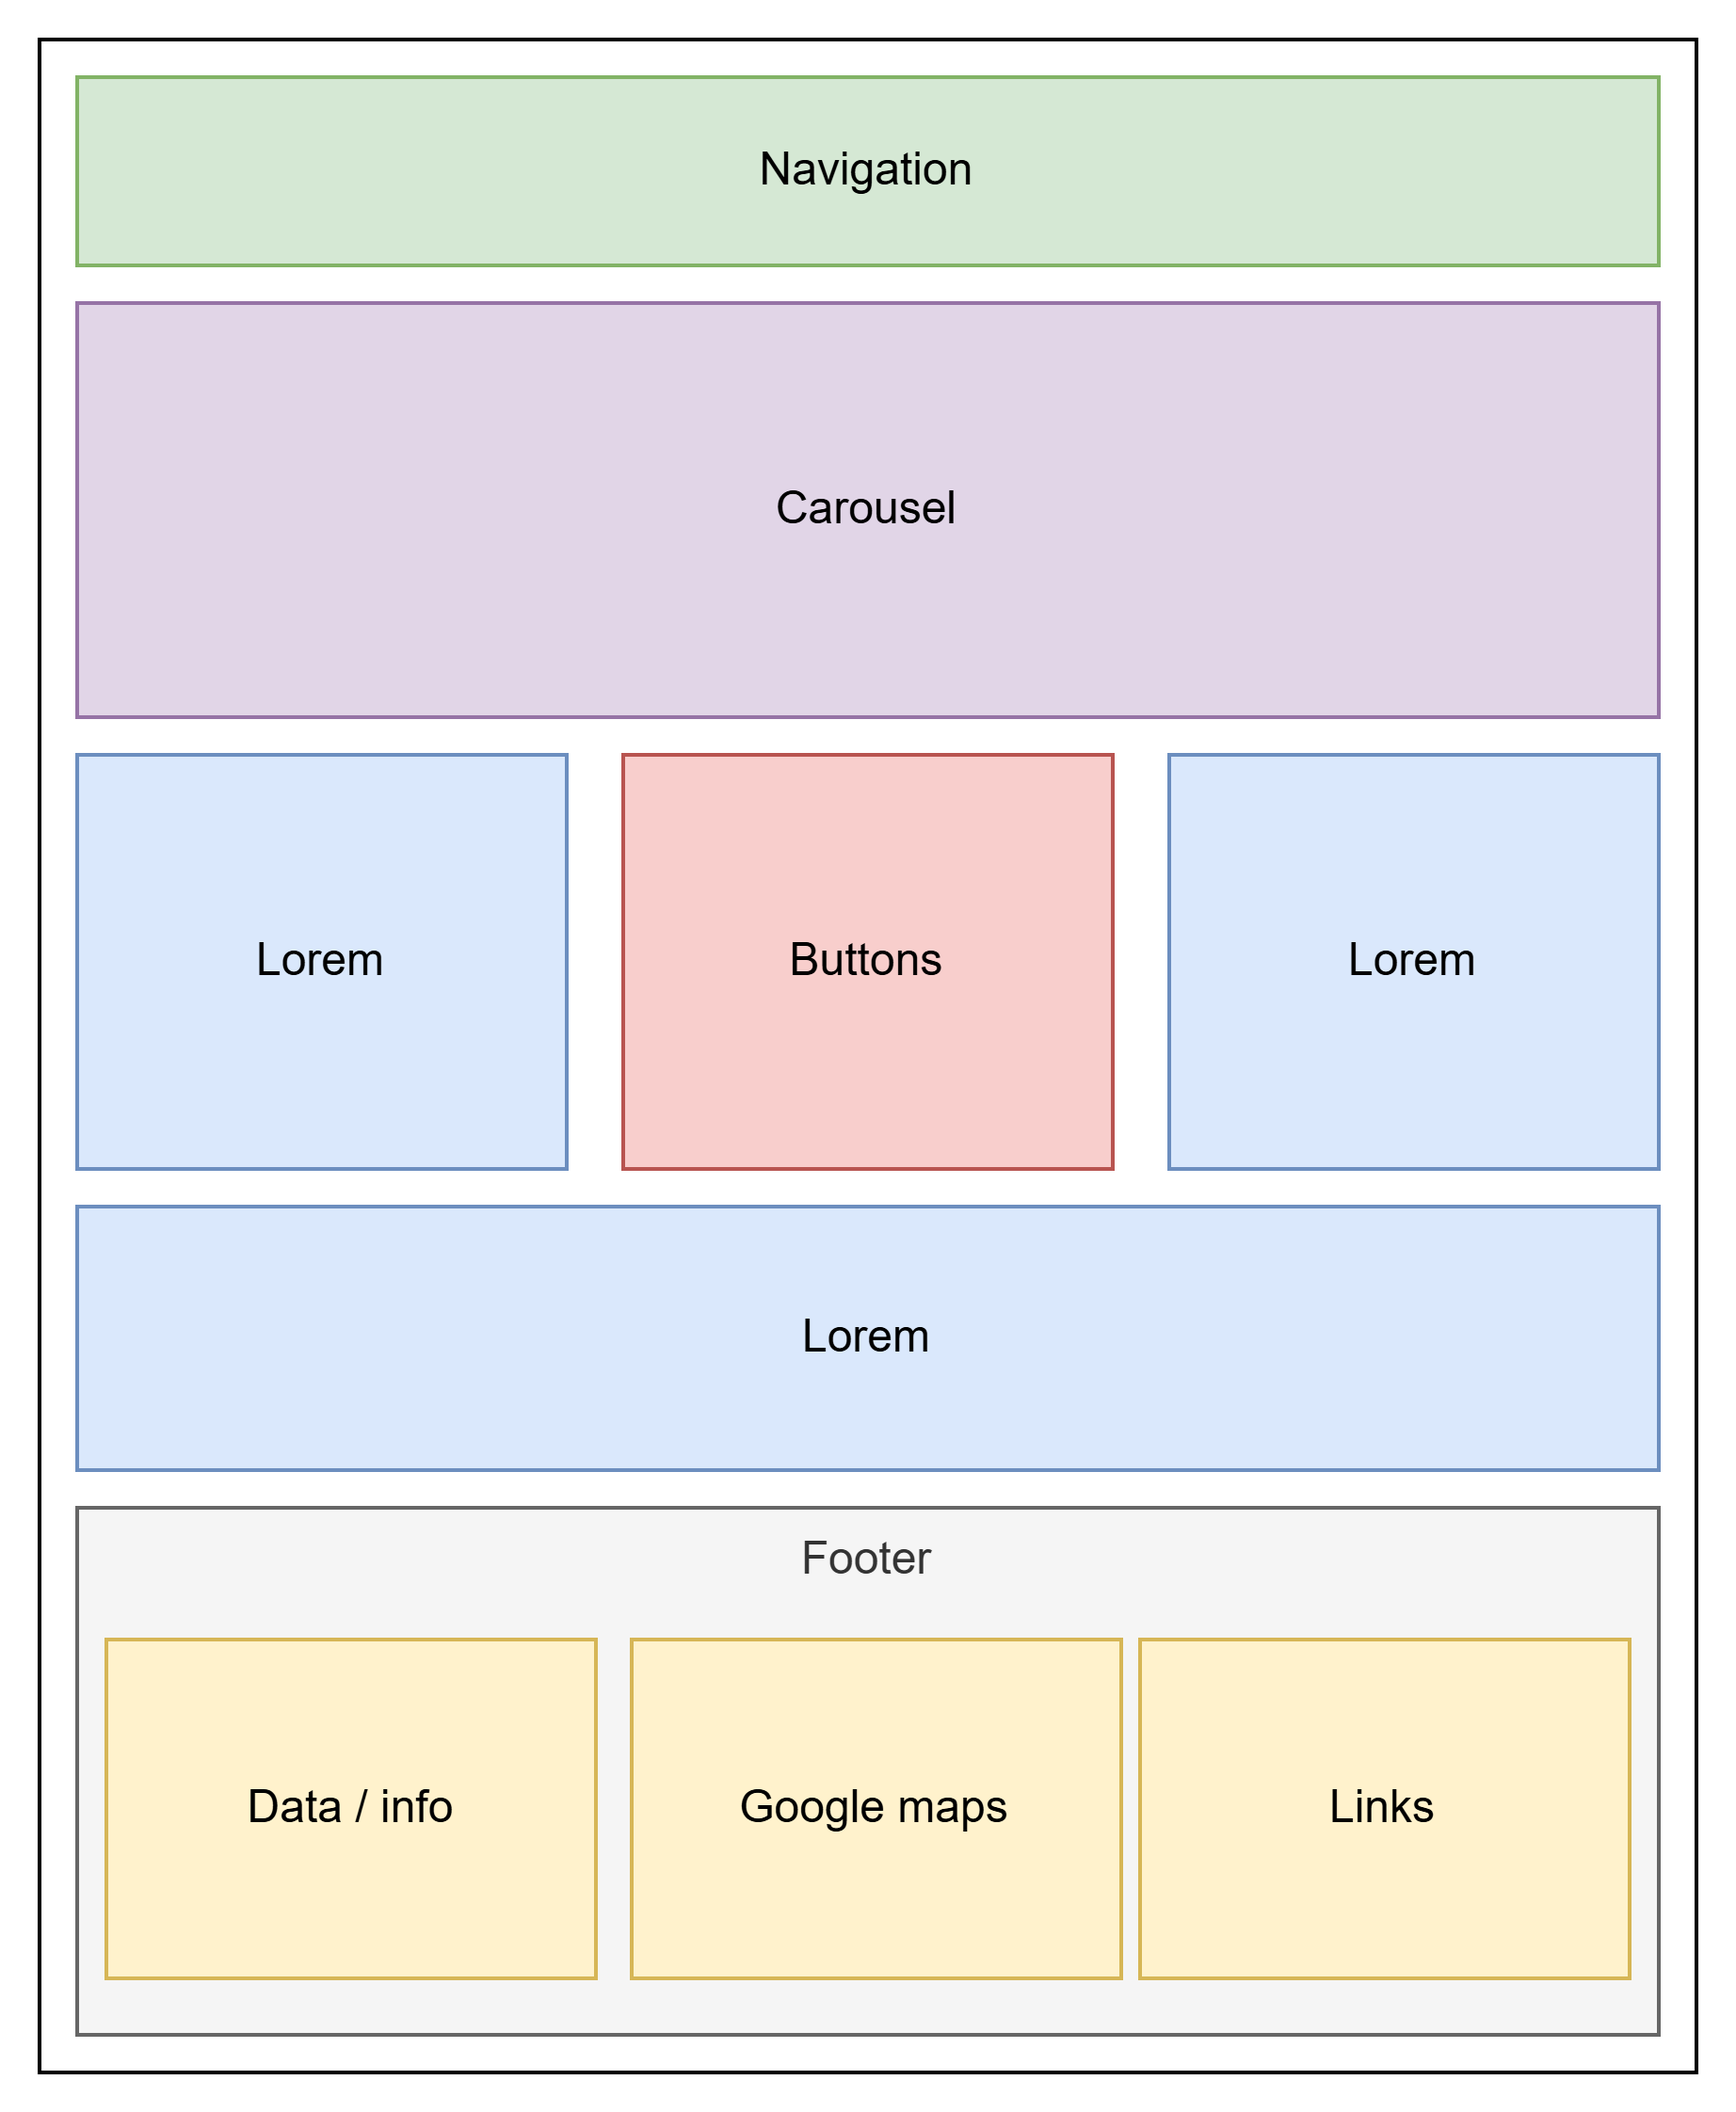
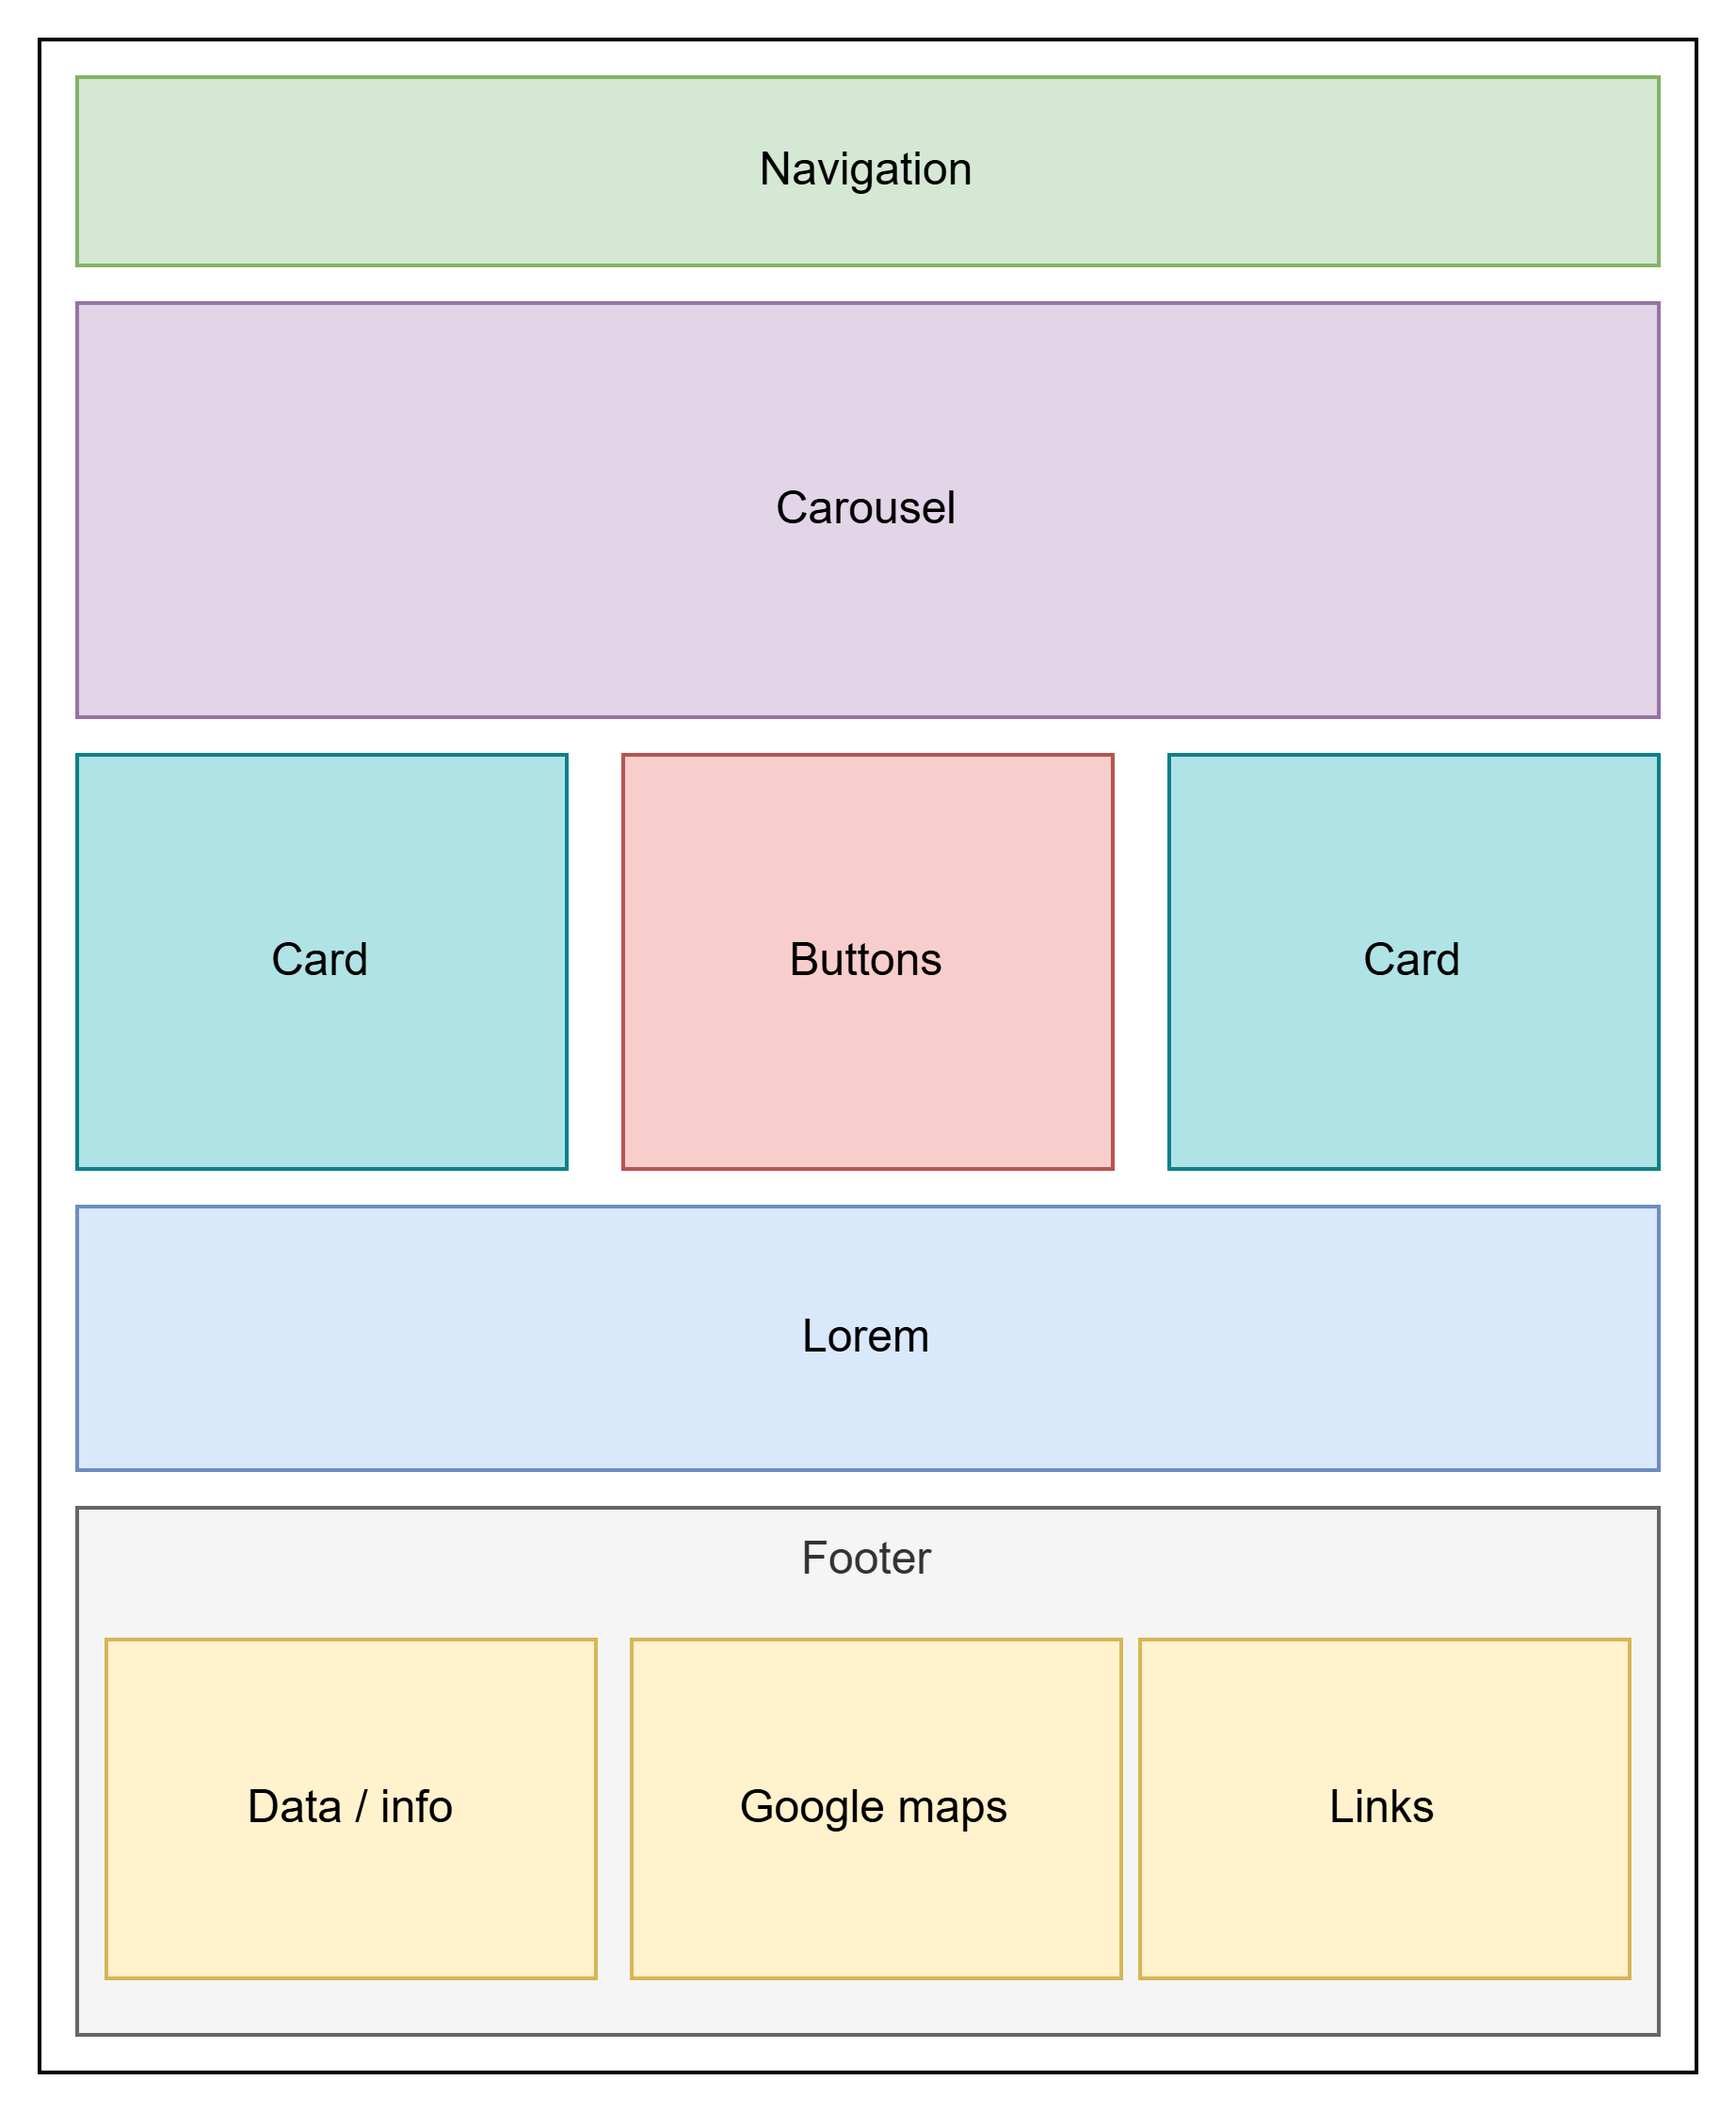
refactorings

Changed region(s): [[0.6491, 0.3431, 0.9582, 0.5615], [0.0309, 0.3431, 0.34, 0.5615]]

diff --git a/workshops/workshop-05.md b/workshops/workshop-05.md
@@ -7,7 +7,7 @@
 
 ## Feladat
 
-A feladat egy ASP.MVC alkalmazás készítése, aminek segítségével csekkbefizetéseket lehet kezelni, teljes CRUD funkcionalitással.
+A feladat egy ASP.MVC alkalmazás készítése, aminek segítségével számlabefizetéseket lehet kezelni, teljes CRUD funkcionalitással.
 
 A projekt létrehozásakor a következő MVC rétegzést alkalmazza:
 
@@ -21,44 +21,43 @@ A projekt létrehozásakor a következő MVC rétegzést alkalmazza:
 
 #### Data réteg
 
-- Hozzon létre egy `Cheque` entitást az alábbi tulajdonságokkal:
+- Hozzon létre egy `Invoice` entitást az alábbi tulajdonságokkal:
   - `Id` (int, elsődleges kulcs)
-  - `PayerName` (string, max. 50 karakter) - a csekk befizetőjének neve.
-  - `Amount` (int) - a csekk összege.
-  - `DueDate` (DateTime) - a csekk befizetési határideje.
-  - `IsPaid` (bool) - jelzi, hogy a csekk ki van-e fizetve.
-- Készítsen egy repository-t, amely az alapvető CRUD műveleteket kezeli memória-alapon (pl. `List<Cheque>`).
+  - `PayerName` (string, max. 50 karakter) - a számla befizetőjének neve.
+  - `Amount` (int) - a számla összege.
+  - `IsPaid` (bool) - jelzi, hogy a számla ki van-e fizetve.
+- Készítsen egy repository-t, amely az alapvető CRUD műveleteket kezeli memória-alapon (pl. `List<Invoice>`).
 
 #### Controller réteg
 
-- Hozzon létre egy `ChequesController`-t, amely az alábbi metódusokat tartalmazza:
-  - `Index`: Az összes csekk listázása.
-  - `Create`: Új csekk hozzáadása.
-  - `Edit`: Csekk adatainak módosítása.
-  - `Delete`: Csekk törlése.
-  - `MarkAsPaid`: Egy adott csekk "Kifizetett" státuszra állítása.
+- Hozzon létre egy `InvoiceController`-t, amely az alábbi metódusokat tartalmazza:
+  - `Index`: Az összes számla listázása.
+  - `Create`: Új számla hozzáadása.
+  - `Edit`: Számla adatainak módosítása.
+  - `Delete`: Számla törlése.
+  - `MarkAsPaid`: Egy adott számla "Kifizetett" státuszra állítása.
 
 #### View réteg
 
 - Használja a Bootstrap keretrendszert az egyszerű és letisztult kinézetért.
 - Az alábbi oldalakat hozza létre:
-  - Csekklista
-    - Táblázatos formában listázza a csekkeket. A táblázatban jelenjenek meg a következő oszlopok:
-    - `PayerName`, `Amount`, `DueDate`, `IsPaid`.
+  - Számlalista
+    - Táblázatos formában listázza a számlákat. A táblázatban jelenjenek meg a következő oszlopok:
+    - `PayerName`, `Amount`, `IsPaid`.
     - Minden sorban legyenek gombok az `Edit`, `Delete` és `MarkAsPaid` műveletekhez.
-  - Új csekk hozzáadása
-    - Űrlap a csekk adatainak megadásához (pl. befizető neve, összeg, határidő).
-  - Csekk módosítása
-    - Űrlap a meglévő csekk adatainak frissítéséhez.
-  - Csekk törlése
-    - Egy gomb a táblázatban, amely egy meglévő csekket töröl (nincs külön nézet).
+  - Új számla hozzáadása
+    - Űrlap a számla adatainak megadásához (pl. befizető neve, összeg).
+  - Számla módosítása
+    - Űrlap a meglévő számla adatainak frissítéséhez.
+  - Számla törlése
+    - Egy gomb a táblázatban, amely egy meglévő számlát töröl (nincs külön nézet).
   - Státusz módosítása
-    - Egy gomb a táblázatban, amely "Kifizetett"-re állítja a csekket (nincs külön nézet).
+    - Egy gomb a táblázatban, amely "Kifizetett"-re állítja a számlát (nincs külön nézet).
 
 #### Bootstrap és feltételes megjelenítés
 
-A csekklista táblázatban az `IsPaid` mező jelenjen meg színezve. Kifizetett csekk esetén zöld pipával, míg nem kifizetett csekk esetén piros X-szel.
+A számlalista táblázatban az `IsPaid` mező jelenjen meg színezve. Kifizetett számla esetén zöld pipával, míg nem kifizetett számla esetén piros X-szel.
 
 #### Validáció JavaScript segítségével
 
-Adjon hozzá kliensoldali validációt az új csekk felviteli űrlaphoz. Amennyiben valamelyik feltétel nem teljesül, úgy a gomb ne legyen kattintható (ehhez használja a disabled HTML attribútum állítását JavaScript kód alapján). `PayerName`: kötelező megadni, max. 50 karakter hosszú lehet. `Amount`: kötelező megadni, csak nullánál nagyobb pozitív érték lehet.
+Adjon hozzá kliensoldali validációt az új számla felviteli űrlaphoz. Amennyiben valamelyik feltétel nem teljesül, úgy a gomb ne legyen kattintható (ehhez használja a disabled HTML attribútum állítását JavaScript kód alapján). `PayerName`: kötelező megadni, max. 50 karakter hosszú lehet. `Amount`: kötelező megadni, csak nullánál nagyobb pozitív érték lehet.

diff --git a/workshops/workshop-02.md b/workshops/workshop-02.md
@@ -35,11 +35,11 @@ A fájlok létrehozásakor a következő mappastruktúrát alkalmazza:
 
 A `styles` mappában hozza létre a fentebb látható három állományt. A `main.css` feladata, hogy minden olyan stílusleírást, amely egységesen alkalmazandó a teljes alkalmazáson belül, itt foglaljon helyet. Ezen kívül szükséges még a `services.css` valamint a `merch.css` létrehozása, a megfelelő aloldalakhoz tartozóan.
 
-Minden html fájl a pages mappán belül kapja meg a main.css-t referenciaként. A másik két aloldal ezen túl még kapja meg a saját css-üket is.
+Minden html fájl a `pages` mappán belül kapja meg a `main.css`-t referenciaként. A másik két aloldal ezen túl még kapja meg a saját CSS-üket is.
 
-Találjon ki valamilyen egységes stílust, amelyet minden oldalon szeretne alkalmazni. Ezt kódolja le a main.css fájlba.
+Találjon ki valamilyen egységes stílust, amelyet minden oldalon szeretne alkalmazni. Ezt kódolja le a `main.css` fájlba.
 
-A merch (`merch.html`) aloldalon a következőt szeretnénk látni, ezt kódolja le a merch.css fájlba:
+A merch (`merch.html`) aloldalon a következőt szeretnénk látni, ezt kódolja le a `merch.css` fájlba:
 
 - a kosárbarakás gombjai legyenek zöldek és bennük a szöveg legyen félkövér
 - az input mezők legyenek rövidek, 30-50 pixel szélességűek
@@ -53,7 +53,7 @@ A szolgáltatások (`services.html`) aloldalon lévő táblázatot "szellősre" 
 
 ### Bootstrap alkalmazása
 
-Azokhoz az aloldalakhoz, ahova nem került be dedikált stílusleíró fájl, oda linkelje be a main.css mellett a Bootstrap css-ét is. Javasolt az 5.3-as verziót használni. Bootstrap segítségével formázza meg a következőket:
+Azokhoz az aloldalakhoz, ahova nem került be dedikált stílusleíró fájl, oda linkelje be a `main.css` mellett a Bootstrap CSS-ét is. Javasolt az 5.3-as verziót használni. Bootstrap segítségével formázza meg a következőket:
 
 - `subjects.html`
   - a tárgyak táblázata legyen sötét témájú
@@ -78,19 +78,17 @@ A navigációs elemeket egészítse ki tetszőlegesen Bootstrap gomb stílussal.
 
 #### Tartalom
 
-A főoldal tartalmi részét a következő elvárások mentén alakítsa ki:
+A főoldal tartalmi részét a következő elvárások, és az alábbi kép mentén alakítsa ki.
 
 - az oldal tetején legyen egy carousel, amelyben képek váltsák egymást
 - alatta hozzon létre egy három oszlopból álló grid részt, amelyben:
-  - bal oszlop: lorem helykitöltő szöveg
-  - középső oszlop: gombok legyenek egymás alatt amibe programnyelvek legyenek
-  - jobb oszlop: lorem helykitöltő szöveg
+  - bal oszlop: Bootstrap card valamilyen tetszőleges tartalommal
+  - középső oszlop: gombok legyenek egymás alatt amibe programnyelvek legyenek tartalomként beleírva
+  - jobb oszlop: Bootstrap card valamilyen tetszőleges tartalommal
 - alatta hozzon létre egy nagy egybefüggő részt, amibe csak helykitöltés jelleggel lorem szöveget rakjon bele
 - az oldal alján legyen a footer rész, amiben 3 oszlopot alakítson ki
   - bal oszlop: a fiktív magánegyetem adatait adja meg (tel, cím, email stb.)
   - középső oszlop: egy google maps térképet ágyazzon ide be megfelelő méretben
   - jobb oszlop: a navigációban található linkeket itt is sorolja fel egymás alatt
 
-A leírás alapján egy blokkos felépítésű ábrát az alábbi kép szemléltet.
-
-![main-page-layout](main-layout.png)
+![main-page-layout|400](main-layout.png)
